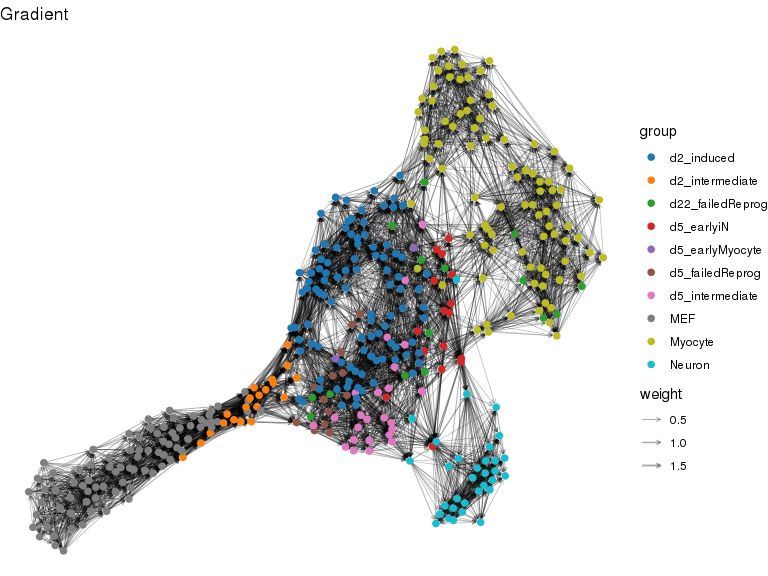
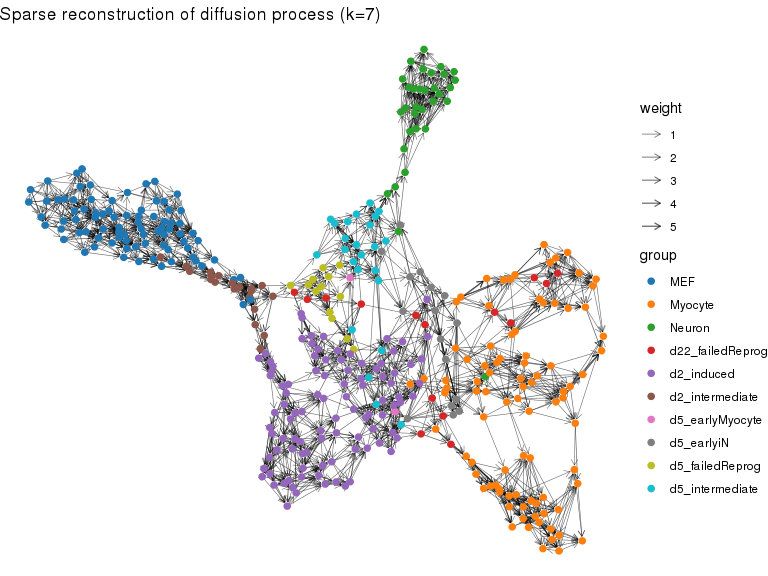
removed unnecessary codes and files

Changed region(s): [[0.0312, 0.0625, 1.0, 0.9688], [0.0, 0.0, 0.5, 0.0625], [0.8125, 0.1562, 0.9688, 0.2812]]

diff --git a/README.md b/README.md
@@ -26,27 +26,18 @@ Methods
 Example
 -------
 
-This is a basic example which shows you how to dissect the pseudo-time flow, which we define here as a potential flow (through diffusion maps), of the single-cell RNA-seq data by Treutlein et. al.. ddhodge can further extract and visualize *sink* and *source* information as a divercence of the extracted flow.
+This is a basic example which shows you how to dissect the pseudo-time flow, which we define here as a potential flow (defined through diffusion process), of the single-cell RNA-seq data. ddhodge can further extract and visualize *sink* and *source* information as a divercence of the extracted flow.
 
-### Load packages
+#### Load packages
 
 Please confirm that these packages are installed before trying this example.
 
 ``` r
 library(ddhodge)
 library(dplyr)
-#> 
-#> Attaching package: 'dplyr'
-#> The following objects are masked from 'package:stats':
-#> 
-#>     filter, lag
-#> The following objects are masked from 'package:base':
-#> 
-#>     intersect, setdiff, setequal, union
 library(readr)
 library(ggsci)
 library(ggraph)
-#> Loading required package: ggplot2
 ```
 
 #### Load scRNA-seq data
@@ -54,21 +45,11 @@ library(ggraph)
 Load data of from [GSE6731](https://www.ncbi.nlm.nih.gov/geo/query/acc.cgi?acc=GSE67310) (Treutlein et. al., 2016).
 
 ``` r
-dat <- read_tsv("https://www.ncbi.nlm.nih.gov/geo/download/?acc=GSE67310&format=file&file=GSE67310%5FiN%5Fdata%5Flog2FPKM%5Fannotated.txt.gz")
-#> Parsed with column specification:
-#> cols(
-#>   .default = col_double(),
-#>   cell_name = col_character(),
-#>   assignment = col_character(),
-#>   experiment = col_character()
-#> )
-#> See spec(...) for full column specifications.
-group <- dat %>% filter(assignment!="Fibroblast") %>%
-  with(setNames(assignment,cell_name))
-X <- dat %>% filter(assignment!="Fibroblast") %>%
-  dplyr::select(-(1:5)) %>% as.matrix %>% t
+dat <- read_tsv("https://www.ncbi.nlm.nih.gov/geo/download/?acc=GSE67310&format=file&file=GSE67310%5FiN%5Fdata%5Flog2FPKM%5Fannotated.txt.gz") %>% filter(assignment!="Fibroblast") 
+group <- with(dat,setNames(assignment,cell_name))
+X <- dat[,-(1:5)] %>% as.matrix %>% t
 # revert to FPKM and drop genes with var.=0
-X <- 2^X[apply(X,1,var)>0,]-1 
+X <- 2^X[apply(X,1,var)>0,] - 1 
 ```
 
 #### The ddhodge part
@@ -76,40 +57,37 @@ X <- 2^X[apply(X,1,var)>0,]-1
 Specify input data matrix and roots (starting points).
 
 ``` r
-g <- diffusionGraph(X,group=="MEF",k=30,lambda=1e-4)
+g <- diffusionGraph(X,group=="MEF",k=7,ndc=40) 
 ```
 
-#### Drawings
+#### Visualizations
 
 ``` r
-# visualization using ggraph package
-set.seed(33) 
-igraph::V(g)$group <- group
-lo <- create_layout(g,"nicely")
-
-ggraph(lo) + ggtitle("Gradient") + theme_void() +
+dggraph <- function(g,...)
+  ggraph(g) + theme_void() +
   geom_edge_link(
     aes(width=weight),
     colour="black",
-    arrow=arrow(length=unit(1.2,"mm")),
-    end_cap = circle(1.2,'mm'), alpha=0.33,
-  ) + scale_edge_width(range=c(0.2,0.8)) +
-  geom_node_point(aes(colour=group),size=2) +
-  scale_color_d3("category20")
+    arrow=arrow(length=unit(1.8,"mm")),
+    end_cap = circle(1.2,'mm'), alpha=0.6,
+  ) + scale_edge_width(range=c(0.2,0.5)) +
+  geom_node_point(...)
+
+igraph::V(g)$group <- group
+set.seed(123) # for reproducible graph layout
+lo <- create_layout(g,"nicely")
+
+dggraph(lo,aes(colour=group),size=2) +
+  ggtitle("Sparse reconstruction of diffusion process (k=7)") +
+  scale_color_d3("category10")
 ```
 
 <img src="man/figures/README-drawGraph-1.png" width="100%" />
 
 ``` r
 
-ggraph(lo) + ggtitle("Divergence") + theme_void() +
-  geom_edge_link(
-      aes(width=weight),
-      colour="black",
-      arrow=arrow(length=unit(1.2,"mm")),
-      end_cap = circle(1.2,'mm'), alpha=0.33,
-  ) + scale_edge_width(range=c(0.2,0.8)) +
-  geom_node_point(aes(colour=div,size=div^2)) +
+dggraph(lo,aes(colour=div,size=div^2)) +
+  ggtitle("Divergence tells us the source and sink.") +
   scale_color_gradient2(low="blue",mid="grey",high="red")
 ```
 
@@ -117,18 +95,22 @@ ggraph(lo) + ggtitle("Divergence") + theme_void() +
 
 ``` r
 
-ggraph(lo) + ggtitle("Potential") + theme_void() +
-  geom_edge_link(
-      aes(width=weight),
-      colour="black",
-      arrow=arrow(length=unit(1.2,"mm")),
-      end_cap = circle(1.2,'mm'), alpha=0.33,
-  ) + scale_edge_width(range=c(0.2,0.8)) +
-  geom_node_point(aes(colour=u),size=2) +
+dggraph(lo,aes(colour=u),size=2) +
+  ggtitle("Potential is considered to be a pseudo-time.") +
   scale_color_viridis()
 ```
 
 <img src="man/figures/README-drawGraph-3.png" width="100%" />
+
+``` r
+
+create_layout(g,"tree") %>%
+  dggraph(aes(colour=group),size=2) +
+  ggtitle("Tree layout is possible because the flow is purely DAG.") +
+  scale_color_d3("category10")
+```
+
+<img src="man/figures/README-drawGraph-4.png" width="100%" />
 
 TODO
 ----
